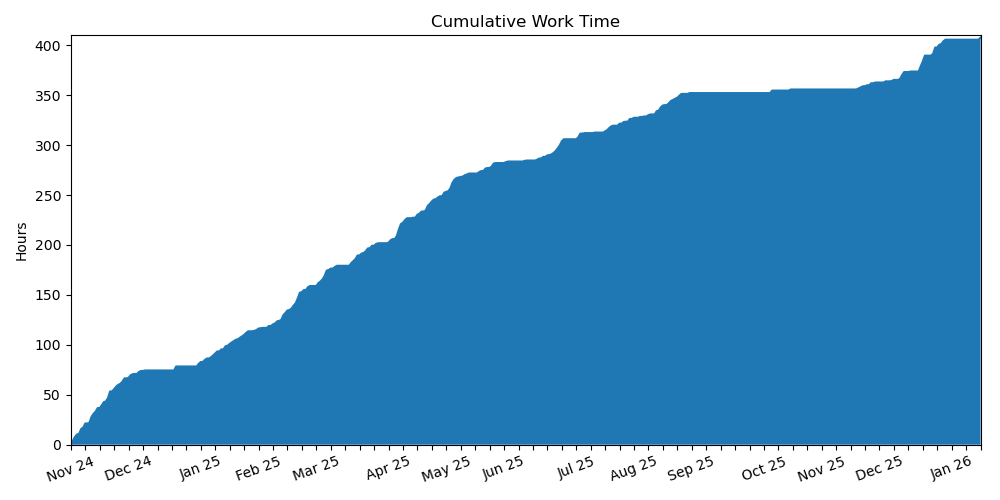
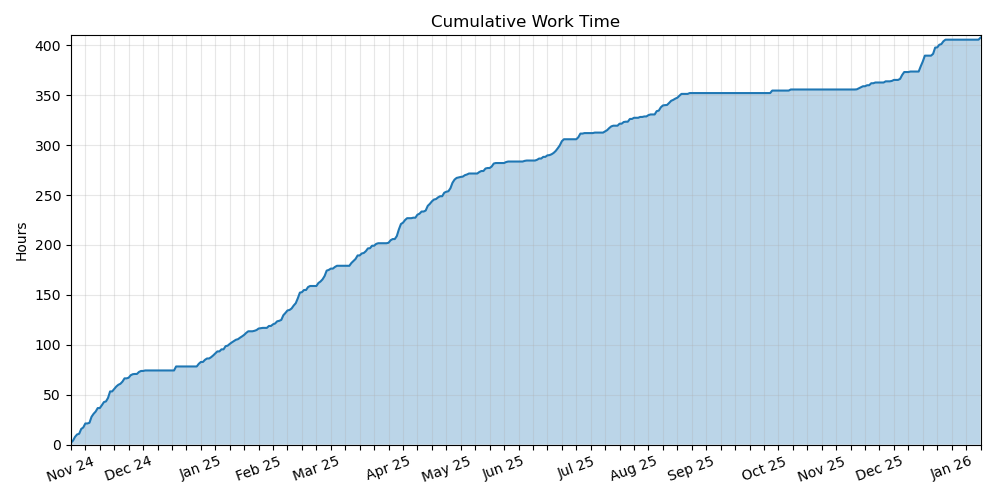
New chart and small fixes

diff --git a/src/script.py b/src/script.py
@@ -199,7 +199,7 @@ def plotPerDay(perDay):
     # Linear
     plt.figure(figsize=(10, 5))
     plt.plot(counts, hours)
-    plt.fill_between(counts, hours)
+    plt.fill_between(counts, hours, alpha=0.3)
     plt.xlabel("Date")
     plt.ylabel("Hours")
     plt.title("Daily Work Time")
@@ -207,18 +207,20 @@ def plotPerDay(perDay):
     plt.xlim(counts[0], counts[len(counts)-1])
     plt.xticks(range(0, 442, 7), [f"{dates[i]}" for i in range(64)], rotation=20)
     plt.tight_layout()
+    plt.grid(alpha=0.3)
     plt.show()
 
     # Cumulative
     plt.figure(figsize=(10, 5))
     plt.plot(counts, hoursCumulative)
-    plt.fill_between(counts, hoursCumulative)
+    plt.fill_between(counts, hoursCumulative, alpha=0.3)
     plt.ylabel("Hours")
     plt.title("Cumulative Work Time")
     plt.ylim(0, 410)
     plt.xlim(counts[0], counts[len(counts)-1])
     plt.xticks(range(0, 442, 7), [f"{dates[i]}" for i in range(64)], rotation=20)
     plt.tight_layout()
+    plt.grid(alpha=0.3)
     plt.show()
     
 def plotByWeek(perDay):
@@ -671,12 +673,66 @@ def plotTimeOfWorkingPerDayOfWeek(days):
     plt.ylabel("Day of week")
     plt.show()
 
+def plotOverlapAndIntervals(days):
+    ShiftHours = 4
+
+    times = np.arange(0, 24, 1/60)
+    counts = np.zeros_like(times)
+
+    daysSorted = sorted(days, key=lambda x: x[0])
+    
+    fig, (ax1, ax2) = plt.subplots(2, 1, figsize=(9, 5))
+
+    for i, (dateTimeStart, dateTimeEnd, isTheSameDay, weekday, realDuration) in enumerate(daysSorted):
+        shiftedStart = dateTimeStart - timedelta(hours=ShiftHours)
+        shiftedEnd = dateTimeEnd - timedelta(hours=ShiftHours)
+
+        startHour = shiftedStart.hour + shiftedStart.minute / 60 + shiftedStart.second / 3600
+        endHour = shiftedEnd.hour + shiftedEnd.minute / 60 + shiftedEnd.second / 3600
+
+        if endHour < startHour:
+            ValueError(f"Need to adjust the shift: {endHour}")
+
+        ax2.hlines(y=i, xmin=startHour, xmax=endHour)
+
+        counts += ((times >= startHour) & (times <= endHour)).astype(int)
+
+    window = 30
+    kernel = np.ones(window) / window
+    smoothCounts = np.convolve(counts, kernel, mode="same")
+    ticks = np.arange(0, 25, 1)
+    labels = [f"{(t + ShiftHours) % 24:02.0f}" for t in ticks]
+
+    ax1.plot(times, smoothCounts)
+    ax1.set_xlim(0, 24)
+    ax1.set_ylim(0, 105)
+    ax1.fill_between(times, smoothCounts, alpha=0.3)
+    ax1.set_xticks(ticks)
+    ax1.set_xticklabels(labels)
+    ax1.grid(alpha=0.3)
+
+    ax1.set_ylabel("Frequency")
+    ax1.set_title("Work Time: Overlap and Intervals")
+
+    ax2.set_xlim(0, 24)
+    ax2.set_ylim(0, 320)
+    ax2.set_xticks(ticks)
+    ax2.set_xticklabels(labels)
+    ax2.grid(alpha=0.3)
+
+    ax2.set_ylabel("Activity")
+
+    plt.xlabel("Time of day")
+    plt.show()
+
 def plotTimeForTheWholeDuration(days):
     x = []
     y = []
 
-    firstDay = days[len(days)-1][0] # TODO A bit risky to do it without sorting
-    for i, (dateTimeStart, dateTimeEnd, isTheSameDay, weekday, realDuration) in enumerate(days):
+    daysSorted = sorted(days, key=lambda x: x[0])
+
+    firstDay = daysSorted[0][0]
+    for i, (dateTimeStart, dateTimeEnd, isTheSameDay, weekday, realDuration) in enumerate(daysSorted):
         if isTheSameDay and dateTimeStart.hour == dateTimeEnd.hour:
             dt = dateTimeStart-firstDay
             x.append(dt.days)
@@ -694,7 +750,7 @@ def plotTimeForTheWholeDuration(days):
     currentDate = firstDay
     i = 0
     prevMonth = 0
-    while currentDate <= days[0][0]:
+    while currentDate <= daysSorted[len(daysSorted)-1][0]:
         day = i % 7
         if day == 0:
             if prevMonth != currentDate.date().month:
@@ -803,6 +859,8 @@ perDay = calculatePerDay(days)
 # 4.4
 # plotTimeOfWorkingPerDayOfWeek(days)
 # 4.5
+# plotOverlapAndIntervals(days)
+# 4.6
 # plotTimeForTheWholeDuration(days)
 
 # 5.1

diff --git a/README.md b/README.md
@@ -184,11 +184,20 @@ The result is exactly as expected, with the schedule mostly concentrated on week
 
 **Note for my manager:** the daytime work visible on this chart happened during holidays and vacations days. Not the office time :)
 
-Finally, the last heatmap shows how my working schedule evolved over the entire period.
+We can also look at the data from a bit different angle.
 
 <div align="center">
-  <img src="images/4_5_workschedulebyweek.png">
-  <p><em>Figure 4.5 Work Schedule by Week</em></p>
+  <img src="images/4_5_worktimeoverlapandintervals.png">
+  <p><em>Figure 4.5 Work Time: Overlap and Intervals</em></p>
+</div>
+
+Making an overlap of all working intervals gives the most probable time of working, which is around **23:20**.
+
+The interval chart and the next heatmap give a good overview of how my working schedule changed over the entire period.
+
+<div align="center">
+  <img src="images/4_6_workschedulebyweek.png">
+  <p><em>Figure 4.6 Work Schedule by Week</em></p>
 </div>
 
 I summed up the data by week to have it less noisy.